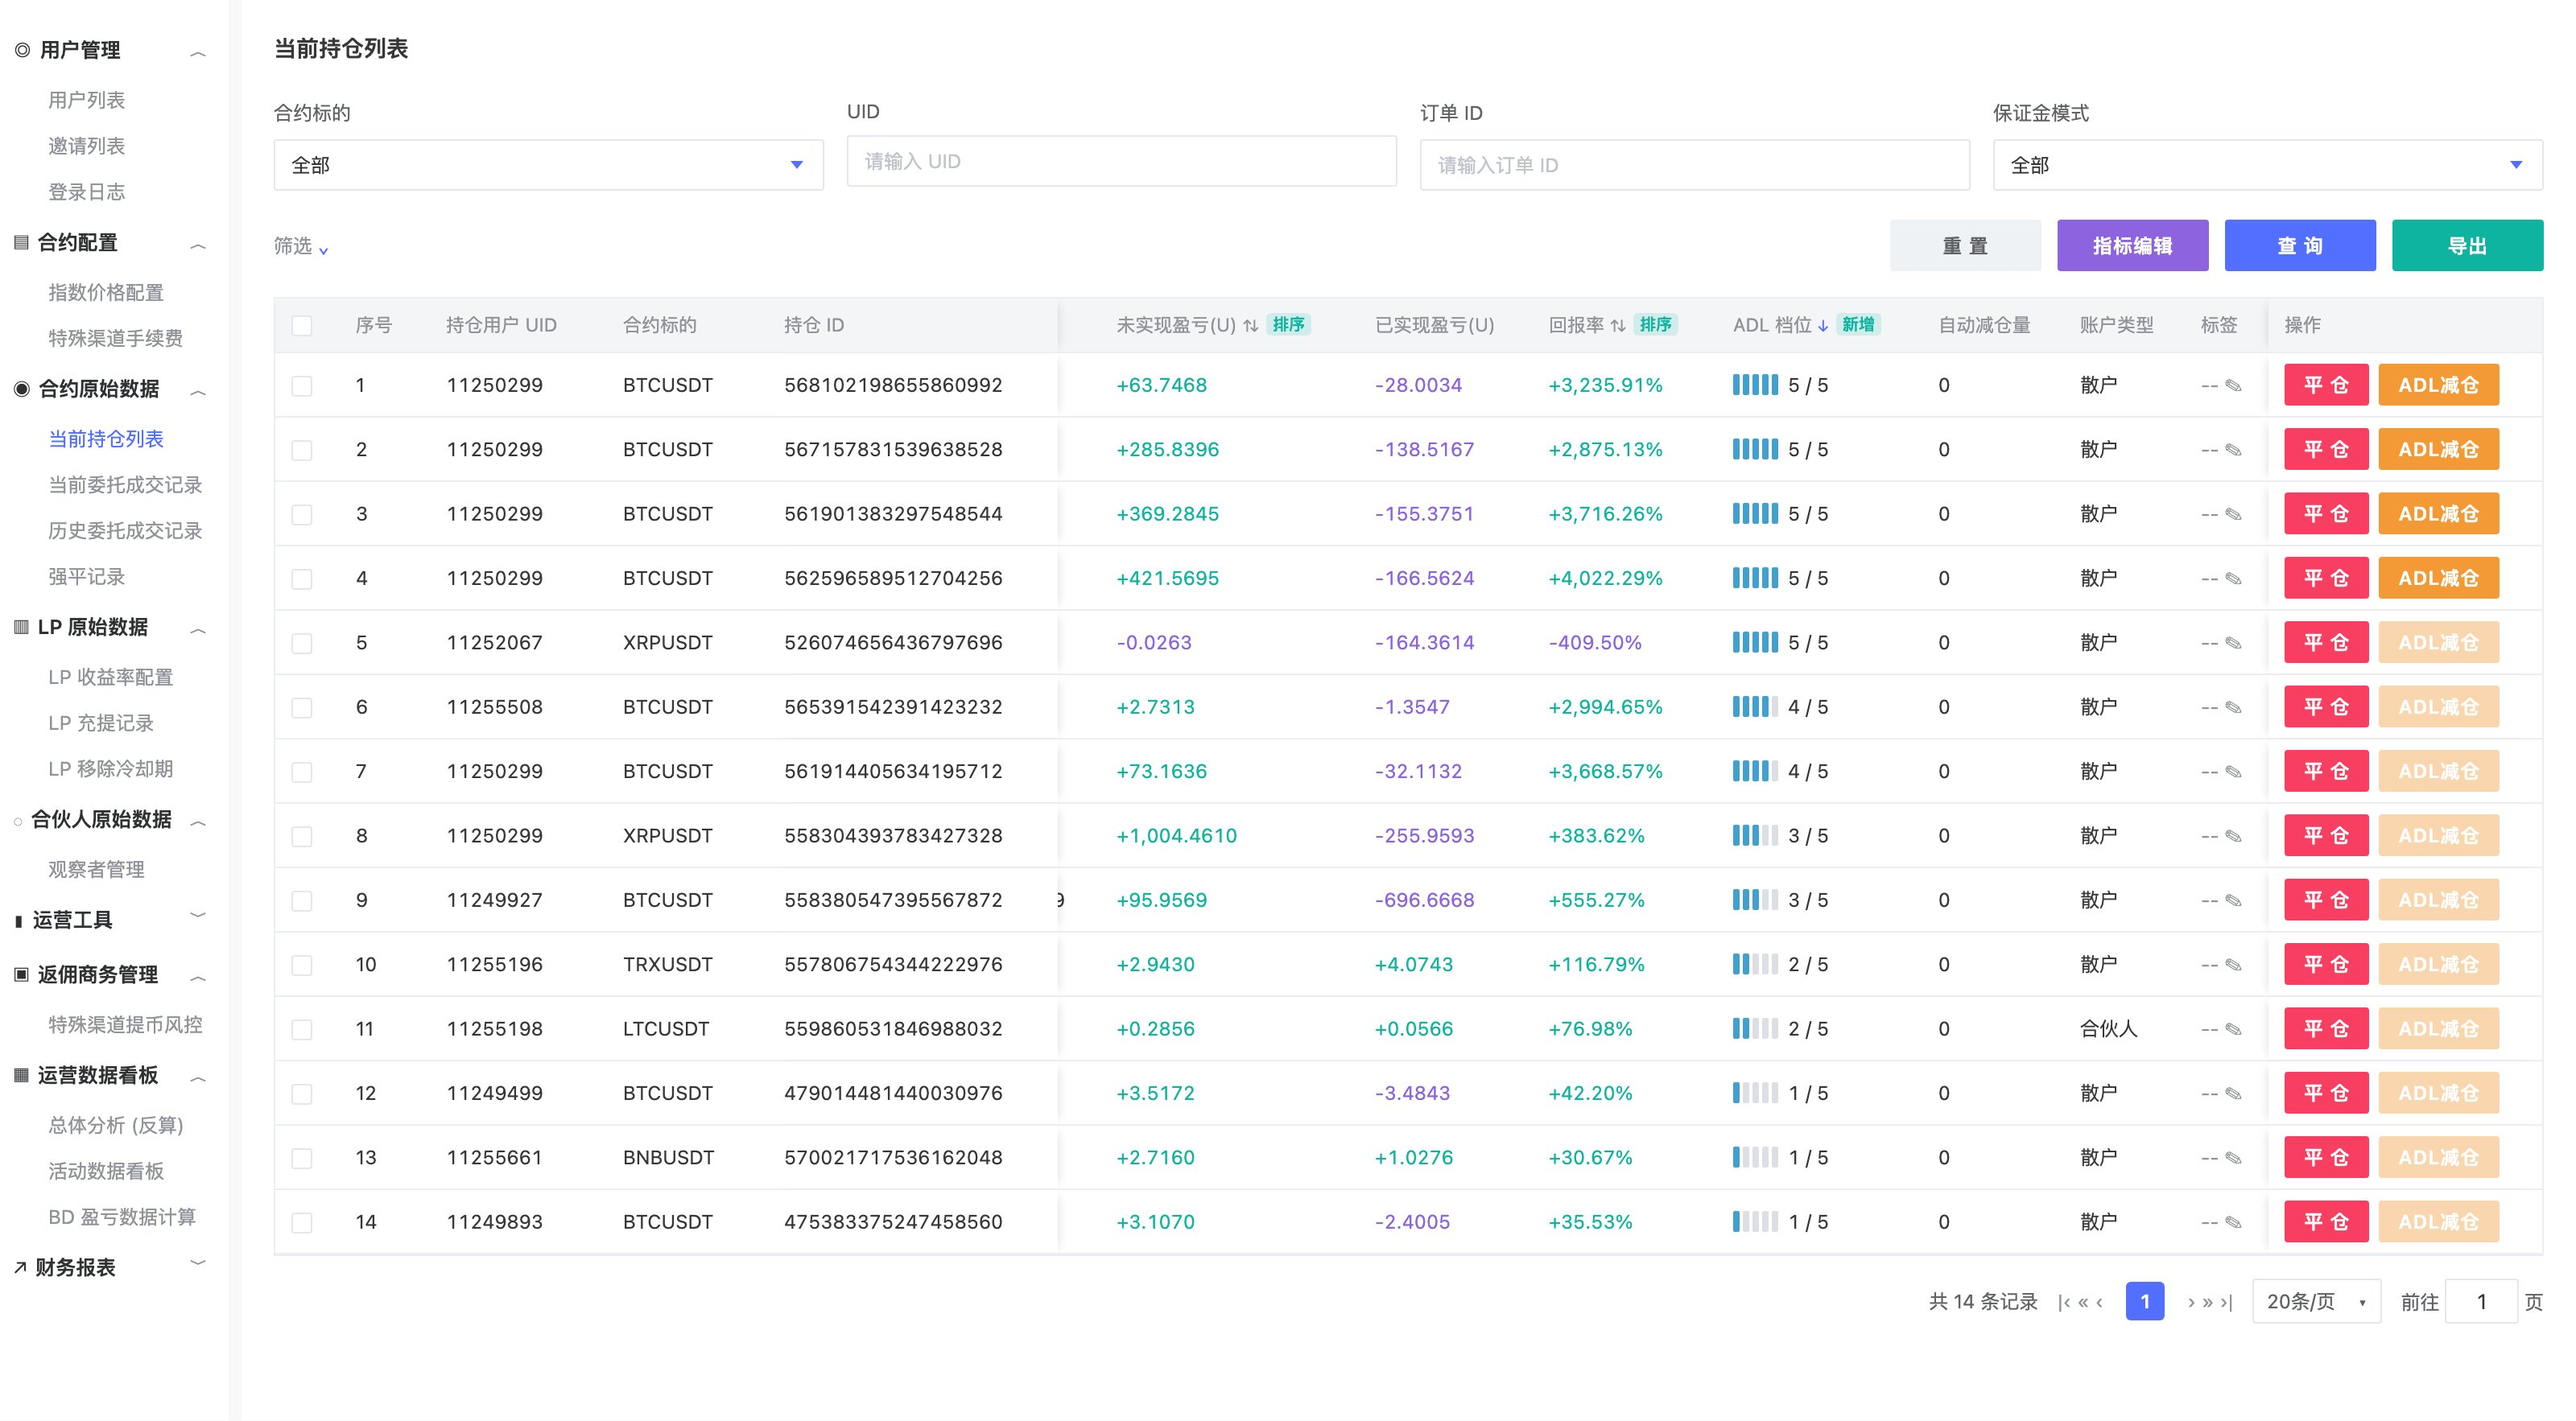
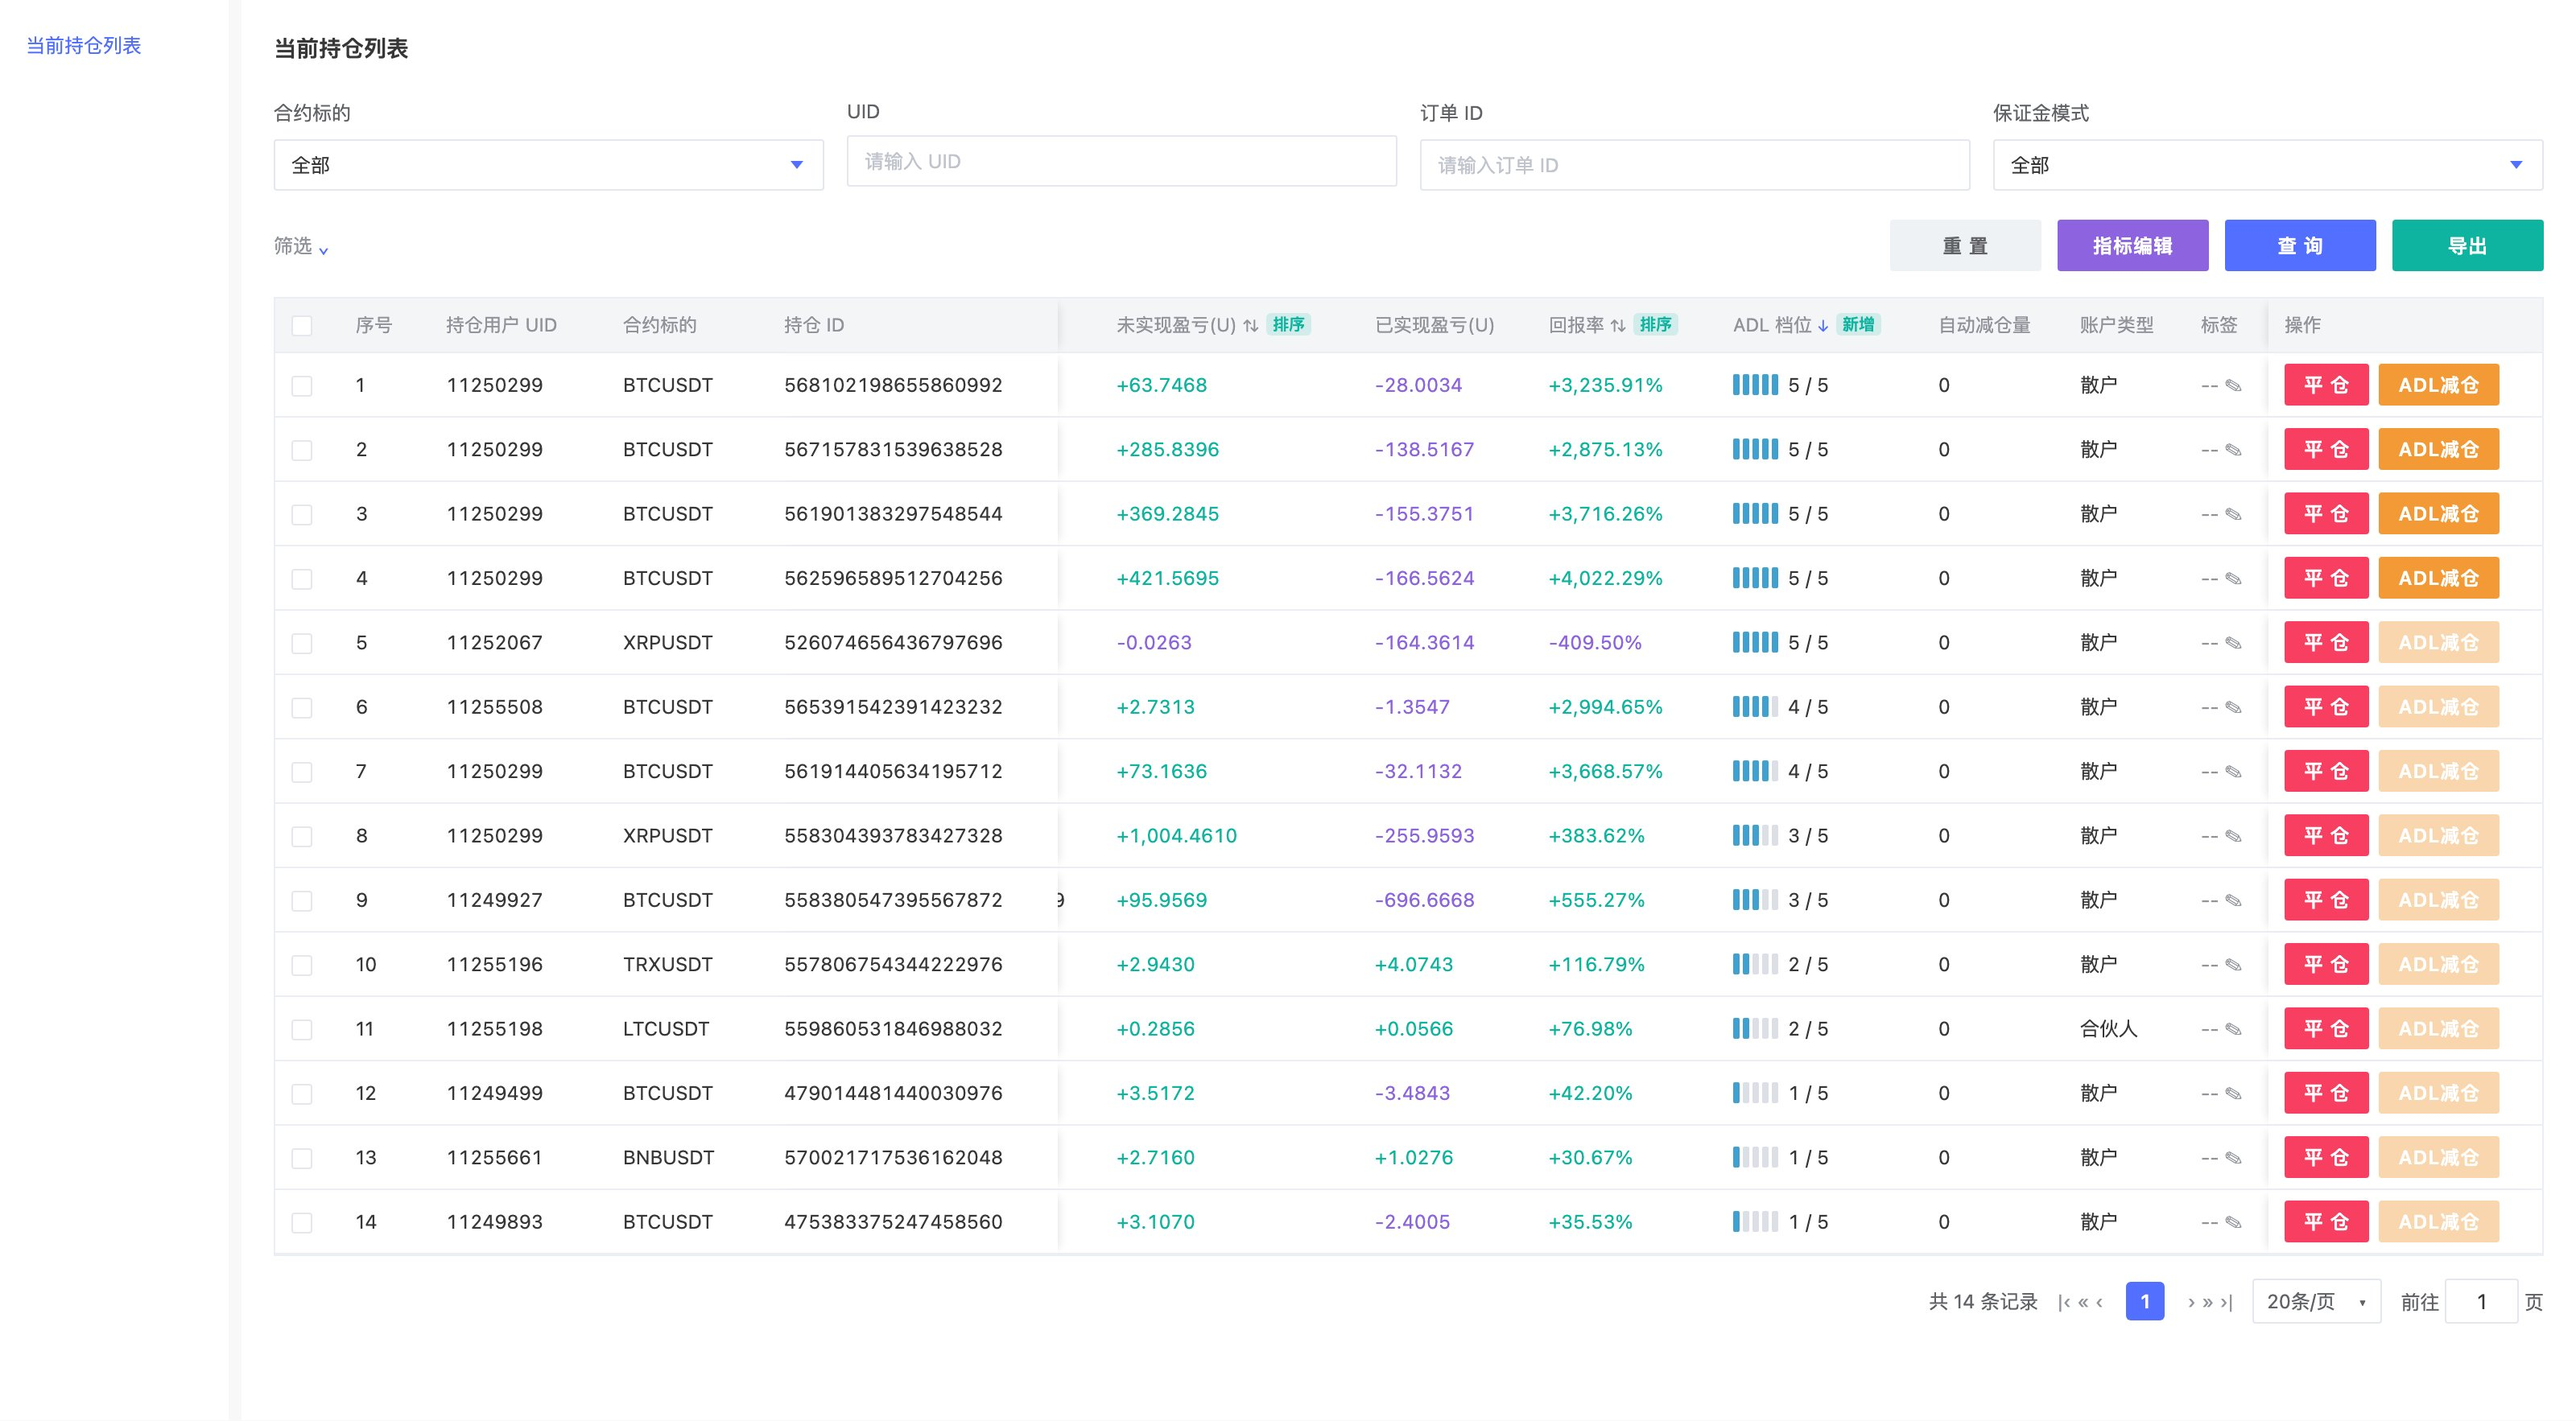
docs: 中台ADL减仓 PRD V1.6——导航精简后重截图1/图5

diff --git a/中台ADL减仓_PRD_V1.0.html b/中台ADL减仓_PRD_V1.0.html
@@ -74,7 +74,7 @@
 
 <div class="cover">
   <h1>中台 ADL 减仓 PRD</h1>
-  <div class="ver">版本 V1.5 · 2026-10-11 · 修订人 Rhys</div>
+  <div class="ver">版本 V1.6 · 2026-10-11 · 修订人 Rhys</div>
   <div class="sub">需求类型：0→1 · 规模 L ｜ 配套原型：<a href="https://forclaudecode.vercel.app/1009-中台ADL减仓.html">1009-中台ADL减仓.html</a> ｜ 规则来源：规则台账_ADL减仓 v1.0（R01–R19）</div>
 </div>
 
@@ -243,7 +243,7 @@ flowchart LR
 
 <h3>3.3 原型及说明</h3>
 <p>原型地址：<a href="https://forclaudecode.vercel.app/1009-中台ADL减仓.html">1009-中台ADL减仓.html</a>（顶部可切换「中台」与「用户端 · App + Web」）。</p>
-<p><strong>中台样式规范</strong>（取色自现有中台页面，浅色 / 深色两套主题）：主操作蓝 #526FFF（深色 #4961DB，用于「查询」「确认减仓」、链接、选中态、分页当前页、弹窗标题下划线）；「指标编辑」紫 #8E63DF；「导出」青绿 #0FB4A0；「平仓」/「确认执行」红 #F83F62（深色 #DE3356）；「重置」/「取消」/「返回修改」灰底（浅 #EEF2F5 / 深 #1F1F1F）。新增的「ADL减仓」按钮使用中台现有的橙色 #F39A37（与「张」单位同色），置灰态为 40% 透明度。涨 / 盈利 / 多仓为青绿 #0FB4A0，跌 / 亏损 / 空仓为紫 #8E63DF；ADL 指示灯点亮色 #40A0D0。页面框架沿用现有左侧导航、筛选区、表格与分页器。</p>
+<p><strong>中台样式规范</strong>（取色自现有中台页面，浅色 / 深色两套主题）：主操作蓝 #526FFF（深色 #4961DB，用于「查询」「确认减仓」、链接、选中态、分页当前页、弹窗标题下划线）；「指标编辑」紫 #8E63DF；「导出」青绿 #0FB4A0；「平仓」/「确认执行」红 #F83F62（深色 #DE3356）；「重置」/「取消」/「返回修改」灰底（浅 #EEF2F5 / 深 #1F1F1F）。新增的「ADL减仓」按钮使用中台现有的橙色 #F39A37（与「张」单位同色），置灰态为 40% 透明度。涨 / 盈利 / 多仓为青绿 #0FB4A0，跌 / 亏损 / 空仓为紫 #8E63DF；ADL 指示灯点亮色 #40A0D0。页面框架沿用现有筛选区、表格与分页器（原型左侧导航仅保留「当前持仓列表」）。</p>
 
 <h4>3.3.1 中台 · 当前持仓列表</h4>
 <figure class="fig"><img src="中台ADL减仓_PRD_assets/01_admin_list.jpg" alt="图 1　当前持仓列表（已按「ADL 档位」降序；亮满 5 格且浮盈的仓位「ADL减仓」可点，第 5 行为亮满 5 格但浮亏，置灰）" loading="lazy"><figcaption>图 1　当前持仓列表（已按「ADL 档位」降序；亮满 5 格且浮盈的仓位「ADL减仓」可点，第 5 行为亮满 5 格但浮亏，置灰）</figcaption></figure>
@@ -436,6 +436,7 @@ flowchart LR
   <tr><td>V1.3</td><td>2026-10-11</td><td>初稿（评审前）</td><td>减仓弹窗删除标题标签与联动提示行；输入数量后直接显示减仓后数值，不再划线展示原值；持仓量 / 可平量、累计已 ADL 按列表所选单位显示；图 2、图 4 重截</td><td>PM 对弹窗的反馈</td></tr>
   <tr><td>V1.4</td><td>2026-10-11</td><td>初稿（评审前）</td><td>二次确认弹窗删除三条说明（不可撤销 / 用户端展示方式 / 操作人记录）；图 3 重截</td><td>PM 对二次确认弹窗的反馈</td></tr>
   <tr><td>V1.5</td><td>2026-10-11</td><td>初稿（评审前）</td><td>中台原型按现有中台页面重做样式（左侧导航、按钮与文字取色、分页器、浅 / 深两套主题），补充「中台样式规范」；「确认减仓」改主色蓝、「确认执行」改平仓红；图 1–6 重截</td><td>PM 要求中台 UI 样式与按钮颜色全部对齐现有中台</td></tr>
+  <tr><td>V1.6</td><td>2026-10-11</td><td>初稿（评审前）</td><td>原型左侧导航只保留「当前持仓列表」；图 1、图 5 重截</td><td>PM 反馈</td></tr>
 </table>
 
 </div></div>
